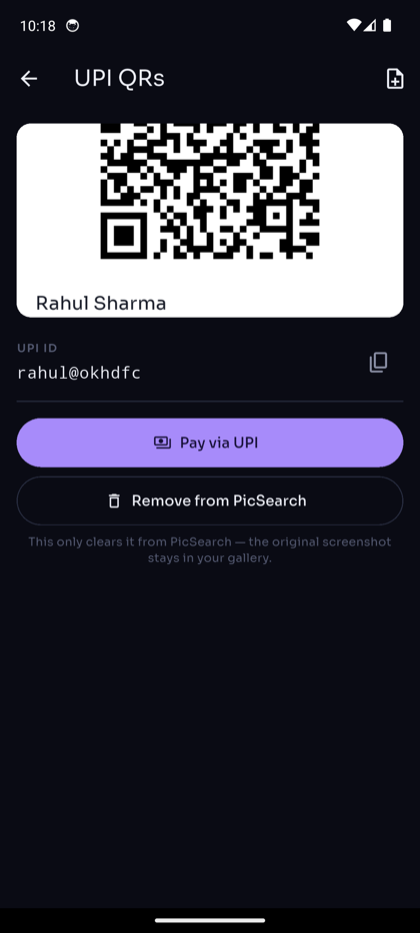
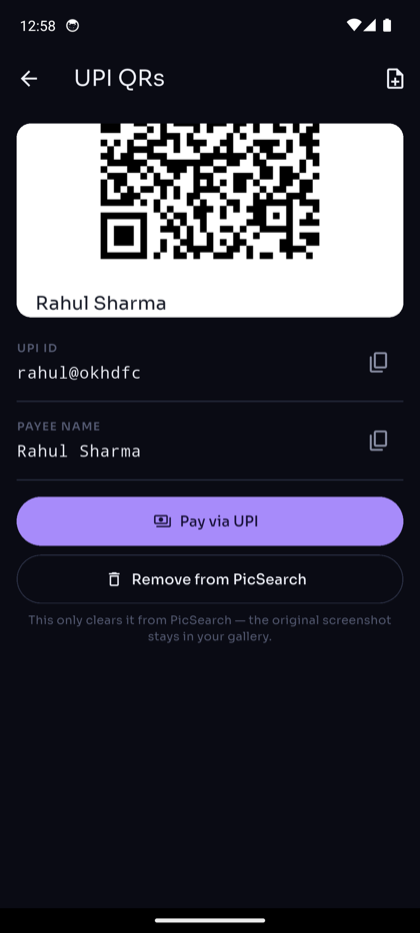
QR/barcode decoding + UPI payee-name extraction (v1.1.2)
- MlKitOcrService now also runs ML Kit Barcode Scanning and appends decoded
  payloads (e.g. a UPI QR's upi://pay?pa=…&pn=…) to the OCR text, so the pure
  analyzer extracts them — auto-reads UPI QRs even when nothing's printed.
- analyzeText adds a "Payee name" field (from pn=, else a name line near the VPA).
- Verified on-device: the UPI record now shows UPI ID + Payee name.
- README + screenshot updated; version 1.1.2.

diff --git a/lib/src/ocr_mlkit.dart b/lib/src/ocr_mlkit.dart
@@ -1,21 +1,38 @@
+import 'package:google_mlkit_barcode_scanning/google_mlkit_barcode_scanning.dart';
 import 'package:google_mlkit_text_recognition/google_mlkit_text_recognition.dart';
 
 import 'ocr_service.dart';
 
-/// On-device OCR via Google ML Kit — nothing leaves the phone. Isolated in its
-/// own file so nothing but the app entrypoint depends on the plugin (keeps the
-/// pipeline and its tests plugin-free).
+/// On-device OCR **and** QR/barcode decoding via Google ML Kit — nothing leaves
+/// the phone. Any decoded barcode payload (e.g. a UPI QR's
+/// `upi://pay?pa=…&pn=…&am=…`) is appended to the recognized text, so the pure
+/// [analyzeText] pipeline extracts it without knowing barcodes exist. Isolated
+/// here so only the app entrypoint depends on the plugins (the pipeline and its
+/// tests stay plugin-free).
 class MlKitOcrService implements OcrService {
   final TextRecognizer _recognizer =
       TextRecognizer(script: TextRecognitionScript.latin);
+  final BarcodeScanner _barcode = BarcodeScanner();
 
   @override
   Future<String> recognize(String imagePath) async {
     final input = InputImage.fromFilePath(imagePath);
     final recognized = await _recognizer.processImage(input);
-    return recognized.text;
+    final parts = <String>[recognized.text];
+    try {
+      for (final b in await _barcode.processImage(input)) {
+        final v = b.rawValue;
+        if (v != null && v.trim().isNotEmpty) parts.add(v.trim());
+      }
+    } catch (_) {
+      // Barcode decoding is best-effort; the OCR text is still returned.
+    }
+    return parts.join('\n');
   }
 
   /// Release native resources when the service is no longer needed.
-  Future<void> dispose() => _recognizer.close();
+  Future<void> dispose() async {
+    await _recognizer.close();
+    await _barcode.close();
+  }
 }

diff --git a/lib/src/analyzer.dart b/lib/src/analyzer.dart
@@ -54,10 +54,15 @@ AnalysisResult analyzeText(String ocrText) {
 /// above/below a VPA in the OCR text — a heuristic for screenshots that print
 /// only the handle. Returns null when neither is confident.
 String? upiPayeeName(String text) {
-  // 1) explicit pn= in a upi:// link
-  final pn = RegExp(r'[?&]pn=([^&\s]+)', caseSensitive: false).firstMatch(text);
+  // 1) explicit pn= in a upi:// link (value runs to the next & or line end, so a
+  //    QR-decoded name with literal spaces survives; decode is fault-tolerant).
+  final pn = RegExp(r'[?&]pn=([^&\r\n]+)', caseSensitive: false).firstMatch(text);
   if (pn != null) {
-    final v = Uri.decodeComponent(pn.group(1)!.replaceAll('+', ' ')).trim();
+    var v = pn.group(1)!.replaceAll('+', ' ');
+    try {
+      v = Uri.decodeComponent(v);
+    } catch (_) {/* leave as-is on malformed % escapes */}
+    v = v.trim();
     if (v.isNotEmpty) return v;
   }
   // 2) a name line next to a VPA

diff --git a/README.md b/README.md
@@ -49,7 +49,8 @@ folders and answers questions in plain English.
 - **Scan** your gallery → each screenshot is OCR'd **on-device** (Google ML Kit).
 - **Extract & verify** the values — a card only files as a card if it passes the
   **Luhn** checksum; an Aadhaar only if it passes **Verhoeff**; PAN/IFSC by
-  structure; UPI by decoding the `upi://` payload (or a bare `name@bank` VPA).
+  structure; UPI by **decoding the QR** (or a printed `upi://` / `name@bank`),
+  including the payee **name**.
 - **Vault** — auto-albums, sensitive values **masked** (`••••6467`), revealed only
   behind biometrics, one-tap **copy**, type-aware actions (e.g. *Pay via UPI*).
 - **Search** — ask in your own words, by text or **voice**.
@@ -92,7 +93,7 @@ messy OCR and is trivially unit-testable.
 | Aadhaar | **Verhoeff** checksum (the real 12th-digit algorithm) |
 | PAN | structural regex `ABCDE1234F` |
 | IFSC | 4-letter bank code + mandatory `0` + 6 alphanumerics |
-| UPI | decode `upi://pay?pa=…`, or a bare `name@bank` VPA (emails excluded) |
+| UPI | **decode the QR barcode** (ML Kit) → `upi://pay?pa=…&pn=…`, or read a printed `upi://` / bare `name@bank` VPA; the **payee name** comes from `pn` or a nearby line |
 
 ### 3 · The Vault — auto-albums by type
 
@@ -361,7 +362,7 @@ ever outgrows the context window.
 
 | Job | Model | Runs |
 |---|---|---|
-| **Vision / OCR** — read text from a screenshot | Google **ML Kit Text Recognition v2** (`google_mlkit_text_recognition`) | **100% on-device** (bundled) |
+| **Vision / OCR** — read text **and decode QR/barcodes** | Google **ML Kit Text Recognition v2** + **Barcode Scanning** | **100% on-device** (bundled) |
 | **Voice** — dictate a query | the **device's own speech recognizer** (Android `SpeechRecognizer`, via `speech_to_text`) — on-device where the OS supports it | on-device / OS — **we bundle no audio model** |
 | **Text LLM — cloud** | Google **Gemini `gemini-flash-latest`** — a rolling alias to the current stable flash tier (→ *gemini-3.x-flash* today), so it never deprecates from under a saved key. **BYOK, optional, verified on Save.** | cloud — **masked text only** |
 | **Text LLM — on-device (opt-in)** | **Gemma** (1B `.task`) via **MediaPipe** (`flutter_gemma`) — download once in Settings, then search / smart folders / cleanup run with **no key and no network at all** | 100% on-device |
